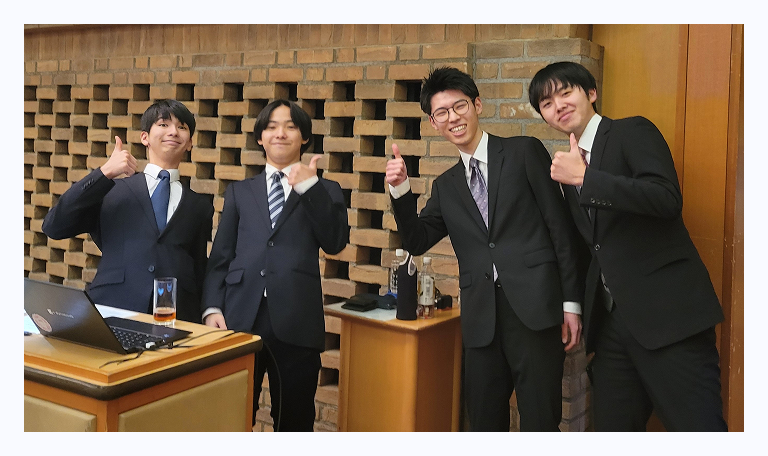
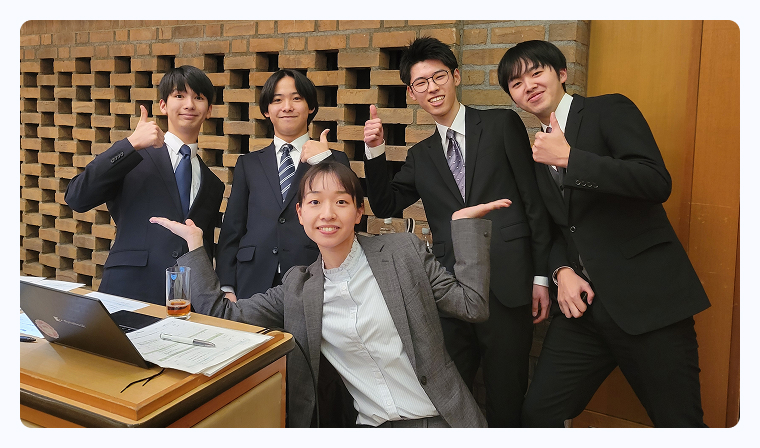
照山先生追加

diff --git a/react-portfolio/src/profileDetail.jsx b/react-portfolio/src/profileDetail.jsx
@@ -25,7 +25,7 @@ const ProfileDetail = () => {
           <DetailSection 
             title="学校活動" 
             titleBg="#4BA2A5" 
-            imgSrc="profile2" 
+            imgSrc="profile1" 
             text={[
               "オープンキャンパスアルバイト",
               "スポーツフェスティバル実行委員",
@@ -33,10 +33,10 @@ const ProfileDetail = () => {
               "入学式在校生実行委員"
             ]}
             reverse={true}
-            comment="卒業記念パーティーでの写真(佐脇・浅野・薗部・鴨川)"
+            comment="卒業記念パーティー(照山先生・佐脇・浅野・薗部・鴨川)"
             />
 
-          <DetailSection 
+          <DetailSection
             title="学んだ言語・ツール" 
             titleBg="#C2C852" 
             imgSrc="skill" 
@@ -58,7 +58,8 @@ const ProfileDetail = () => {
             text={[
               "PHP・Laravel",
               "Flutter・Kotlin・Swift",
-              "Hono・Docker"
+              "Hono・Docker",
+              "WebSocket Node.js"
             ]}
             reverse={true}
             comment="スマホアプリ制作がしてみたい!!"

diff --git a/react-portfolio/src/components/slideInImage.jsx b/react-portfolio/src/components/slideInImage.jsx
@@ -62,7 +62,7 @@ const SlideInImage = ({ src, alt = "", comment = "", direction = "right", classN
               ×
             </button>
             <img src={src} alt={alt} className="rounded-lg w-full mb-4 border-2 border-[#826063]" />
-            <p className="text-center text-gray-700 text-[12px] md:text-sm">{comment}</p>
+            <p className="text-center text-gray-700 text-[11px] md:text-sm">{comment}</p>
           </div>
         </div>
       )}
